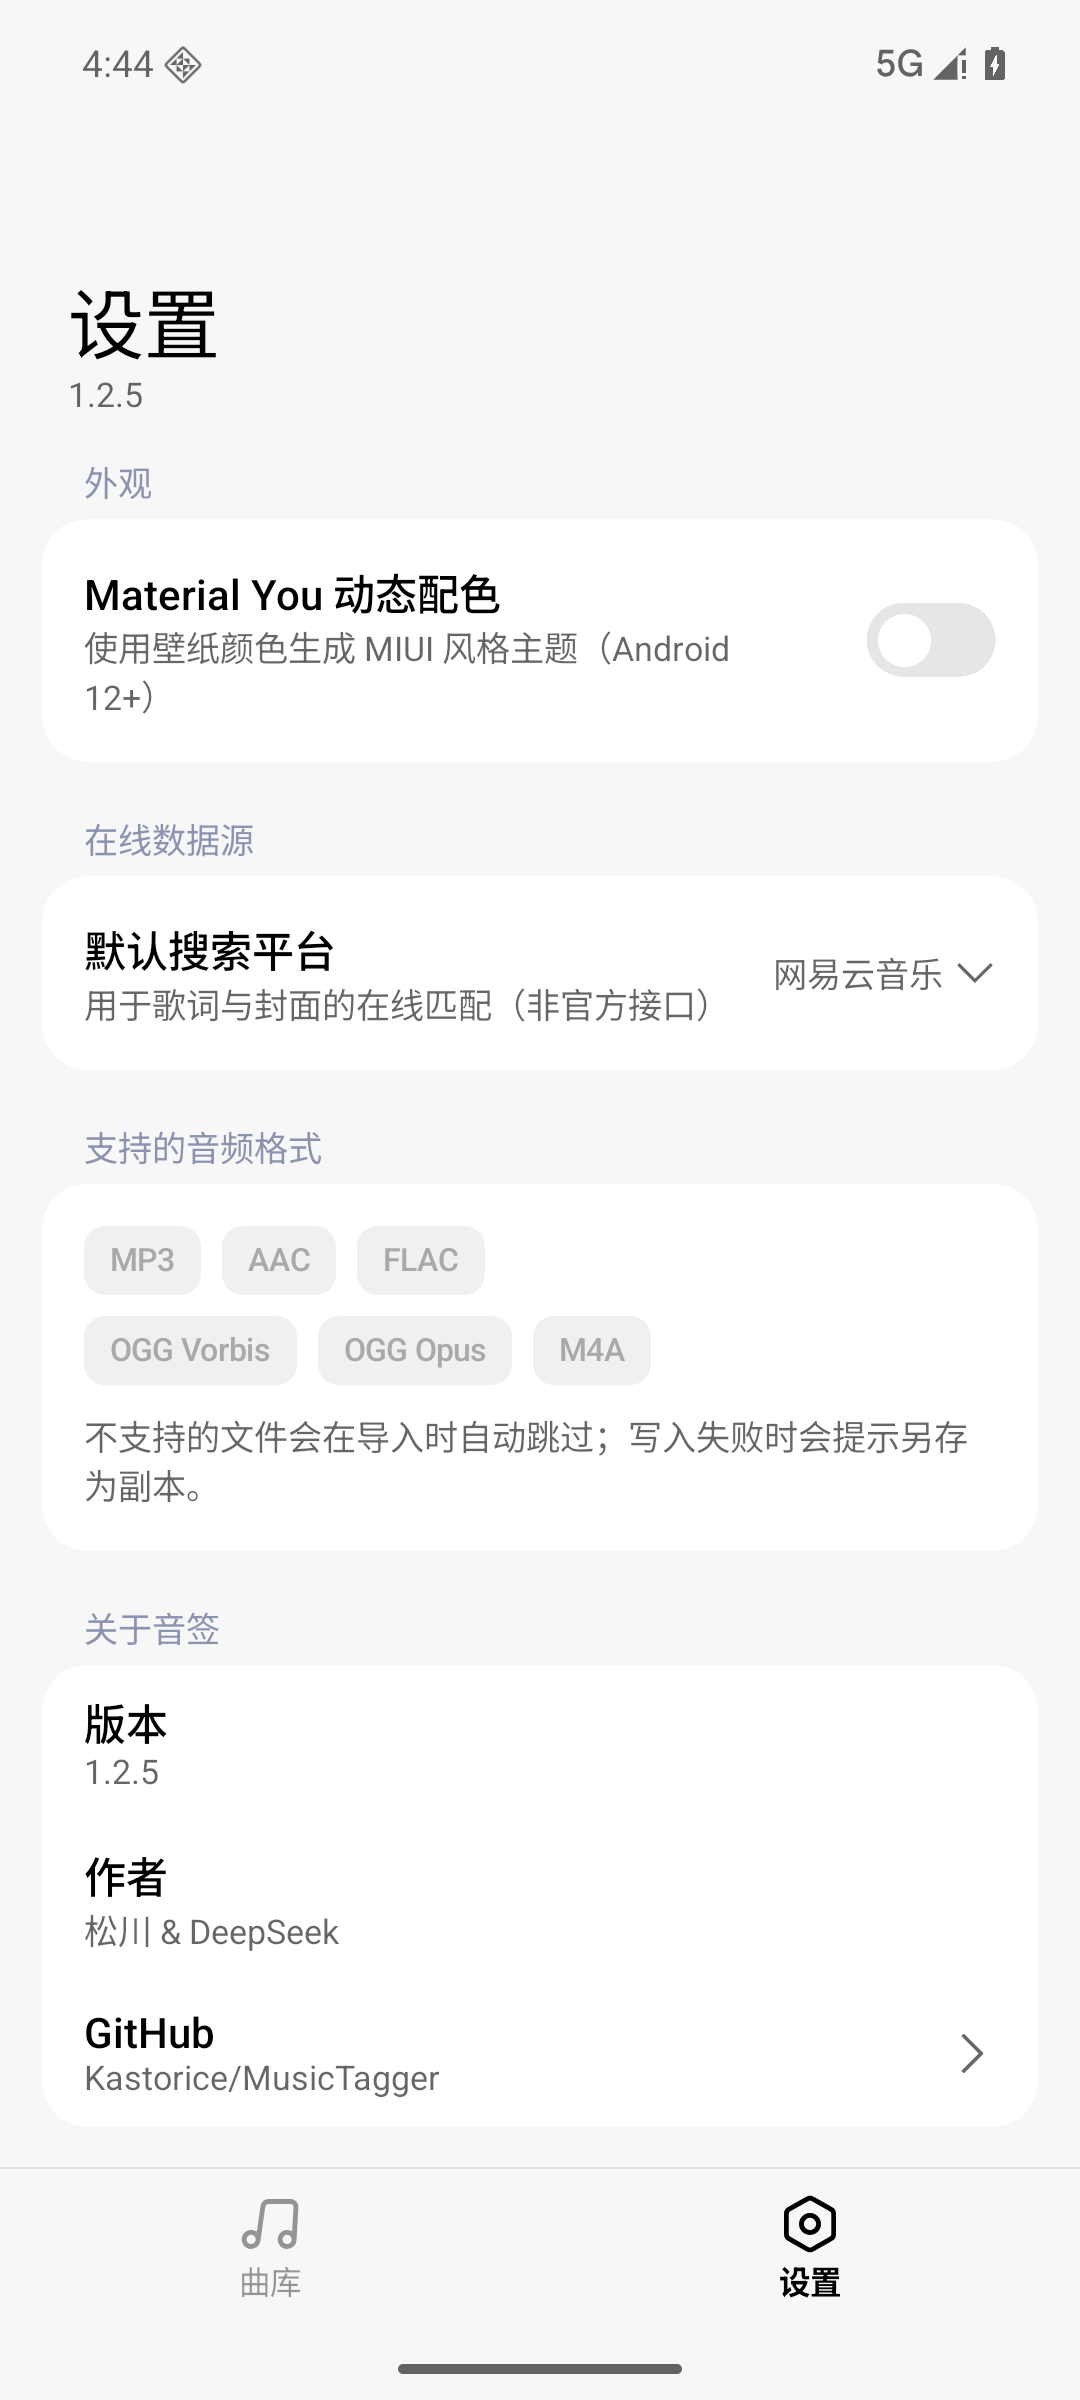
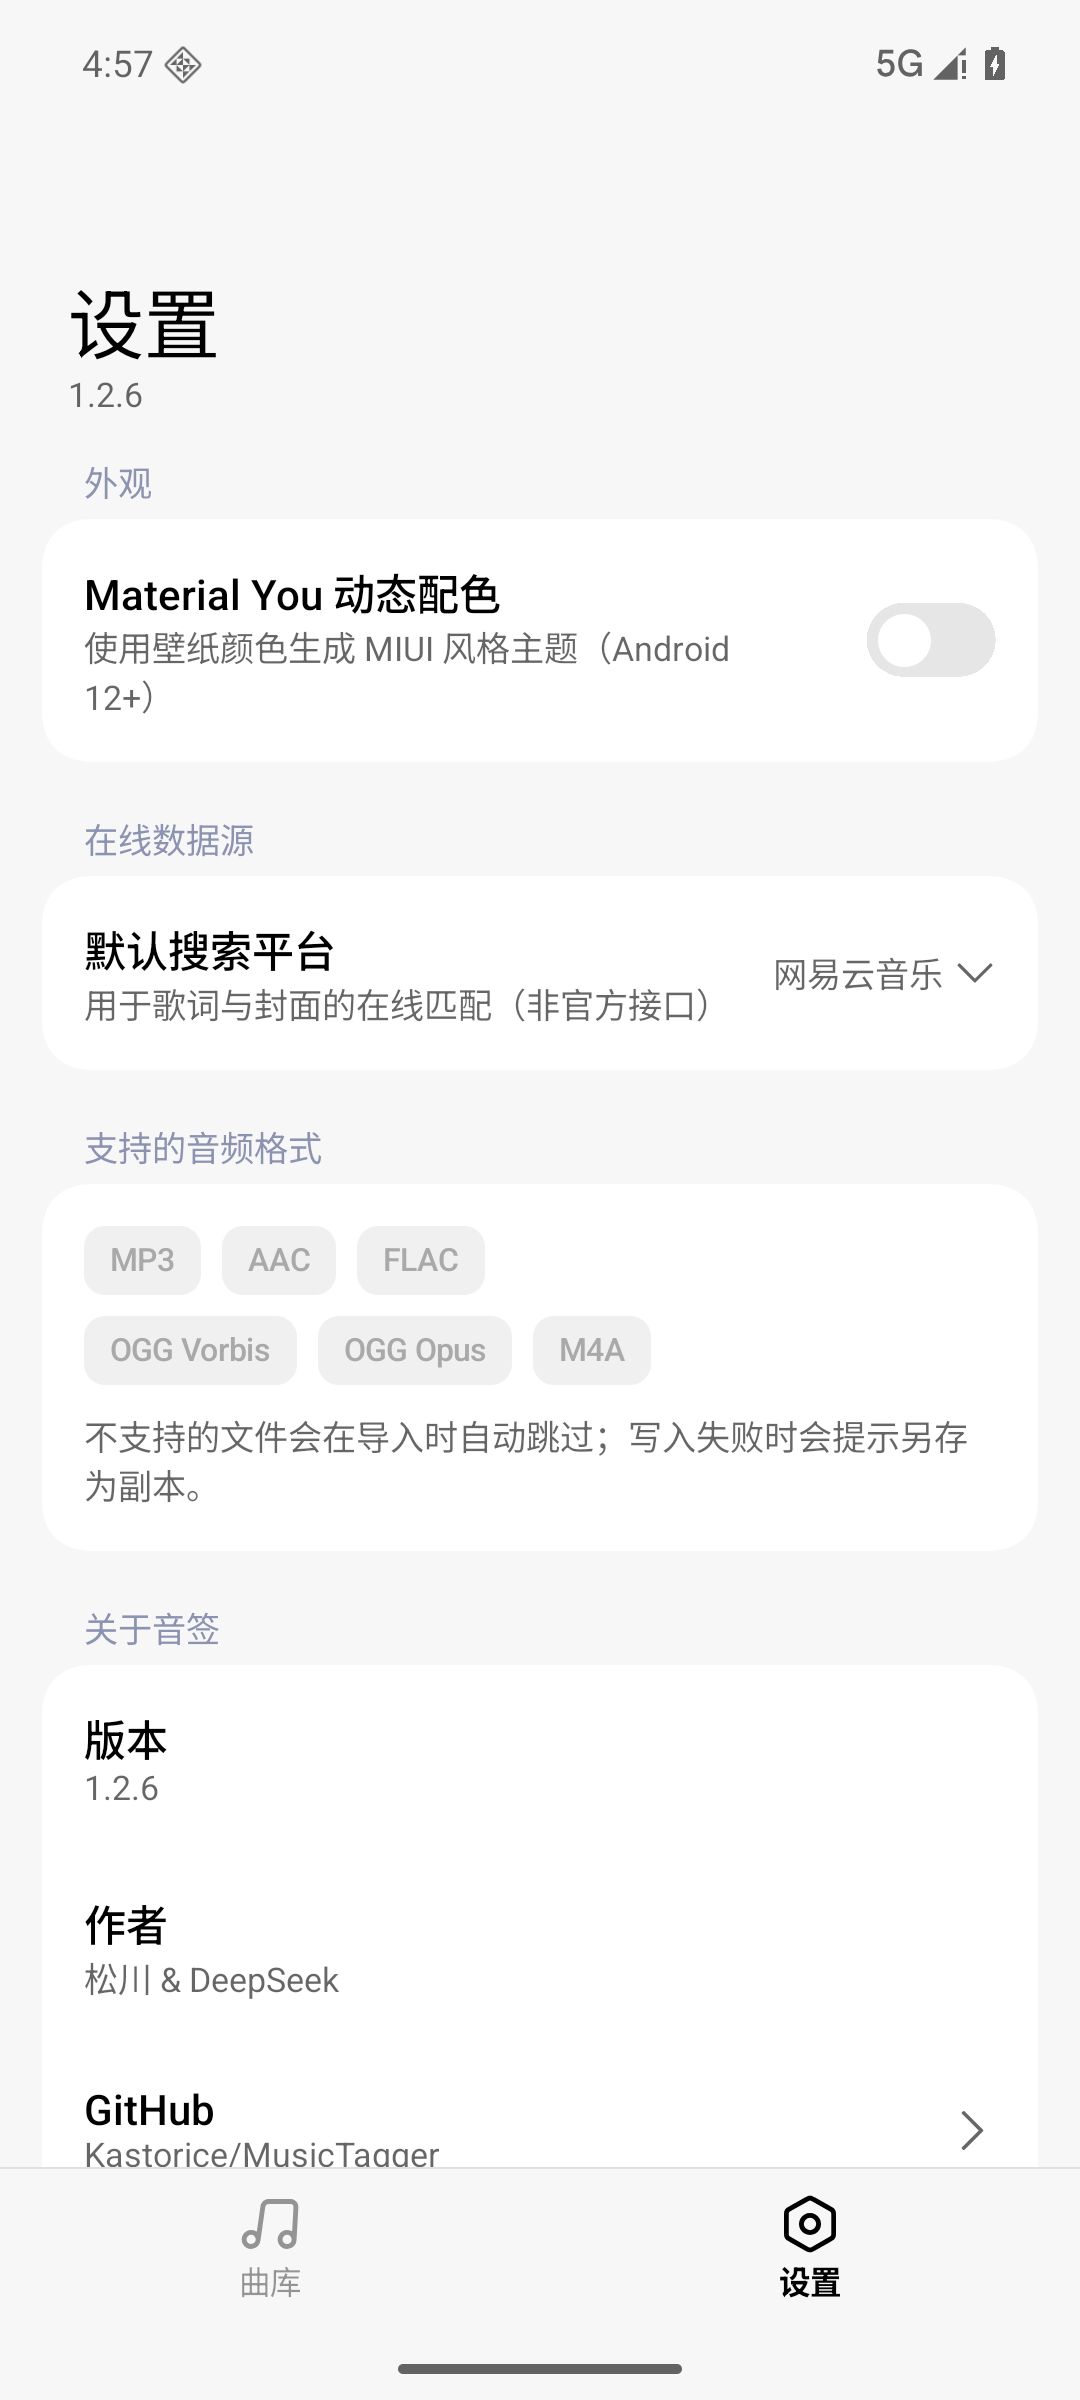
v1.2.6：设置项 16dp 间距与 Tab 滑块去除分割线
- InfoRow 及关于音签条目统一 16dp 上下/左右内边距，对齐默认搜索平台
- 移除 Tab 点击区矩形按压高亮，胶囊滑块滑动时收窄 80% 再展开
- 版本 1.2.6 / versionCode 9

Changed region(s): [[0.0611, 0.6875, 0.3972, 0.9062], [0.0917, 0.0, 0.1528, 0.0312]]

diff --git a/app/src/main/java/com/musictag/app/ui/components/Components.kt b/app/src/main/java/com/musictag/app/ui/components/Components.kt
@@ -154,7 +154,7 @@ fun InfoRow(label: String, value: String, modifier: Modifier = Modifier) {
         modifier = modifier.fillMaxWidth(),
         title = label,
         summary = value,
-        insideMargin = PaddingValues(horizontal = 16.dp, vertical = 8.dp),
+        insideMargin = PaddingValues(horizontal = 16.dp, vertical = 16.dp),
     )
 }
 
@@ -252,7 +252,7 @@ fun MiuixSegmentedControl(
     onSelected: (Int) -> Unit,
     modifier: Modifier = Modifier,
 ) {
-    val pillShape = RoundedCornerShape(9.dp)
+    val pillShape = RoundedCornerShape(percent = 50)
     Surface(
         modifier = modifier,
         shape = RoundedCornerShape(12.dp),
@@ -260,19 +260,30 @@ fun MiuixSegmentedControl(
     ) {
         BoxWithConstraints(modifier = Modifier.fillMaxWidth().padding(3.dp)) {
             val itemWidth = maxWidth / options.size
-            val animatedOffset by animateDpAsState(
-                targetValue = itemWidth * selectedIndex.coerceIn(0, options.lastIndex),
-                animationSpec = spring(dampingRatio = 0.82f, stiffness = 420f),
-                label = "segmentOffset",
+            val indicator = remember { Animatable(selectedIndex.toFloat()) }
+            LaunchedEffect(selectedIndex) {
+                indicator.animateTo(
+                    targetValue = selectedIndex.coerceIn(0, options.lastIndex).toFloat(),
+                    animationSpec = spring(dampingRatio = 0.82f, stiffness = 420f),
+                )
+            }
+            // While gliding, the indicator shrinks into a small capsule, so its
+            // edge never cuts across the neighbouring segment boundaries.
+            val pillWidth by animateDpAsState(
+                targetValue = if (indicator.isRunning) itemWidth * 0.8f else itemWidth,
+                animationSpec = tween(durationMillis = 200, easing = FastOutSlowInEasing),
+                label = "segmentWidth",
             )
+            val animatedOffset = itemWidth * indicator.value + (itemWidth - pillWidth) / 2
             Box(
                 modifier = Modifier
                     .offset(x = animatedOffset)
-                    .width(itemWidth)
+                    .width(pillWidth)
                     .height(34.dp)
                     .clip(pillShape)
                     .background(MiuixTheme.colorScheme.surface),
             )
+            val tabInteraction = remember { MutableInteractionSource() }
             Row(modifier = Modifier.fillMaxWidth()) {
                 options.forEachIndexed { index, label ->
                     val selected = index == selectedIndex
@@ -289,7 +300,10 @@ fun MiuixSegmentedControl(
                         modifier = Modifier
                             .weight(1f)
                             .height(34.dp)
-                            .clickable { onSelected(index) },
+                            .clickable(
+                                interactionSource = tabInteraction,
+                                indication = null,
+                            ) { onSelected(index) },
                         contentAlignment = Alignment.Center,
                     ) {
                         Text(

diff --git a/app/src/main/java/com/musictag/app/ui/settings/SettingsScreen.kt b/app/src/main/java/com/musictag/app/ui/settings/SettingsScreen.kt
@@ -1,4 +1,4 @@
-package com.musictag.app.ui.settings
+package com.musictag.app.ui.settings
 
 import android.os.Build
 import androidx.compose.foundation.background
@@ -145,18 +145,18 @@ fun SettingsScreen(
                     BasicComponent(
                         title = "版本",
                         summary = BuildConfig.VERSION_NAME,
-                        insideMargin = PaddingValues(horizontal = 16.dp, vertical = 10.dp),
+                        
                     )
                     BasicComponent(
                         title = "作者",
                         summary = "松川 & DeepSeek",
-                        insideMargin = PaddingValues(horizontal = 16.dp, vertical = 10.dp),
+                        
                     )
                     BasicComponent(
                         title = "GitHub",
                         summary = "Kastorice/MusicTagger",
                         onClick = onOpenGithub,
-                        insideMargin = PaddingValues(horizontal = 16.dp, vertical = 10.dp),
+                        
                         endActions = {
                             Icon(
                                 imageVector = MiuixIcons.ChevronForward,

diff --git a/docs/RELEASE_NOTES-v1.2.6.md b/docs/RELEASE_NOTES-v1.2.6.md
@@ -1,0 +1,32 @@
+# 音签 MusicTagger v1.2.6
+
+细节修复版本：**设置项间距对齐、Tab 滑动去分割线**。
+
+## 下载
+
+- `MusicTagger-v1.2.6.apk`（R8 压缩 + 资源裁剪，约 **1.5 MB**）
[1 lines of base64/hex data omitted]
+- 系统要求：Android 8.0（API 26）及以上；动态取色需 Android 12+
+
+## 更新内容
+
+- **设置项间距统一**：关于音签、音频参数、文件、封面与歌词等条目统一使用 16dp 左右、
+  16dp 上下内边距，与「默认搜索平台」的卡片留白一致，不再贴住白色圆角矩形的上下边缘。
+- **分段 Tab 动画修复**：白色滑块滑动时的“分割直线”来自各选项卡点击区域自带的矩形按压高亮；
+  现已移除 Tab 点击区的 indication，只保留滑块本体。滑块改为胶囊形，并在滑动过程中
+  略微收窄为小胶囊，移动到目标后再展开，避免边缘扫过相邻选项边界，整体更干净优雅。
+- 其余功能与 v1.2.5 一致。
+
+## 验证
+
+- release APK 在 API 36 模拟器安装：设置/关于/文件信息间距正常；Tab 切换动画无矩形高亮残影；
+  154 个 `:core` 单测通过。
+
+## 已知限制
+
+- Spotify 源未接入（OAuth + 无歌词接口）。
+- release 目前使用 debug 签名，便于直接安装。
+
+## 开源
+
+Apache License 2.0。项目地址：<https://github.com/Kastorice/MusicTagger>

diff --git a/docs/TEST-REPORT.md b/docs/TEST-REPORT.md
@@ -266,11 +266,20 @@ MIUI UI 专项验证（均为真机/模拟器截图确认）：
   154 个单测通过。
 - 版本 `versionCode 8` / `versionName 1.2.5`。
 
+### 第十四轮 v1.2.6（2026-11-15）
+
+- 设置项间距：`InfoRow` 改为 16dp 水平 / 16dp 垂直；关于音签三行去掉 10dp 覆盖，回归默认
+  BasicComponent 内边距，与「默认搜索平台」一致。
+- 分段 Tab 动画：定位到各选项 `clickable` 的矩形按压高亮是“分割直线”来源；
+  为 Tab 点击区设置 `indication = null`，滑块改为胶囊形并在滑动时收窄至 80% 宽度，到位后展开。
+- release APK 1,588,989 字节（约 1.5 MB）；API 36 模拟器验证间距与 Tab 动画，154 个单测通过。
+- 版本 `versionCode 9` / `versionName 1.2.6`。
+
 ## 3. 构建产物
 
 - `app/build/outputs/apk/release/app-release.apk`（约 **1.5 MB**，R8 压缩、资源裁剪，debug 签名）
 - `app/build/outputs/apk/debug/app-debug.apk`（约 11 MB，供开发调试）
-- `dist/MusicTagger-v1.2.5.apk`（交付副本，SHA-256 见 `dist/SHA256.txt`）
+- `dist/MusicTagger-v1.2.6.apk`（交付副本，SHA-256 见 `dist/SHA256.txt`）
 
 ## 4. 复现步骤
 

diff --git a/README.md b/README.md
@@ -124,7 +124,7 @@ powershell -NoProfile -ExecutionPolicy Bypass -File tools\build.ps1 -Tasks ":cor
 APK 输出：调试版 `app/build/outputs/apk/debug/app-debug.apk`，发布版
 `app/build/outputs/apk/release/app-release.apk`（约 1.5 MB，R8 压缩、资源裁剪、仅保留
 中英资源；当前 release 使用 debug 签名以便直接安装，正式上架前应替换为发布签名）。
-交付副本：`dist/MusicTagger-v1.2.5.apk`，SHA-256 见 `dist/SHA256.txt`。
+交付副本：`dist/MusicTagger-v1.2.6.apk`，SHA-256 见 `dist/SHA256.txt`。
 
 ## 测试
 
